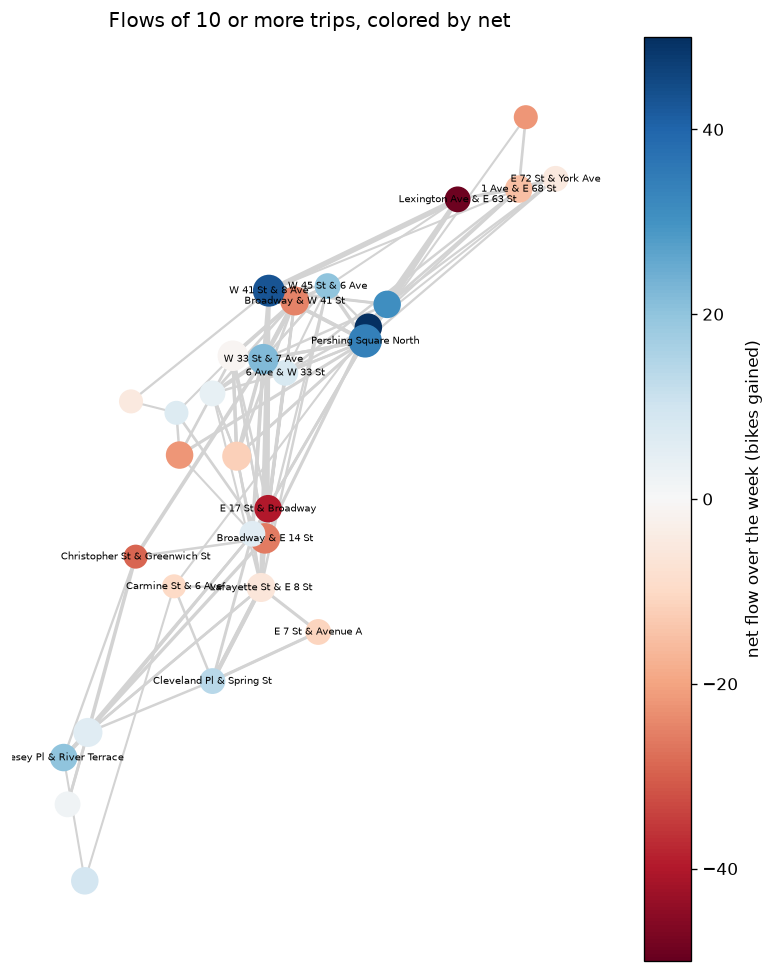
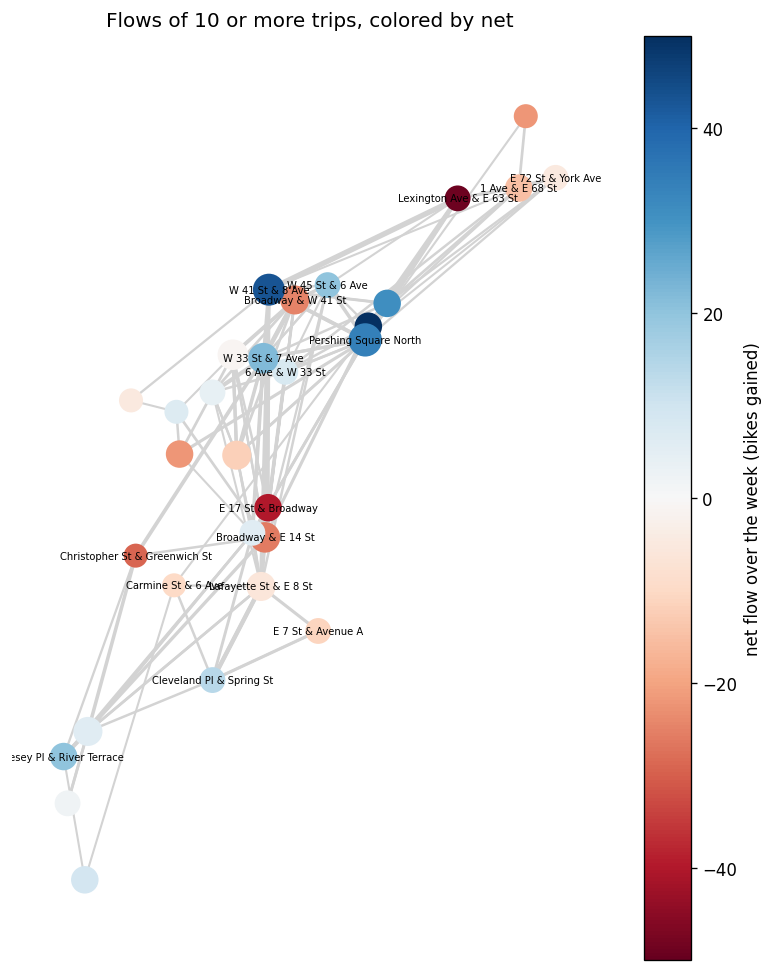
Reset social network script to color by group
The committed picture and the solution text describe the group coloring; the script had been left on car after exploring the other settings.

diff --git a/04_networkx_intro/social_network.py b/04_networkx_intro/social_network.py
@@ -93,8 +93,8 @@ colors_music = {"Indie rock": "tab:green",
 # Change these two lines to recolor the picture. color_by is the attribute name
 # carried on the nodes in block 2 (group, favorite_team, car or music), and
 # colors is the dictionary that goes with it.
-color_by = "car"
-colors = colors_cars
+color_by = "group"
+colors = colors_groups
 
 pos = nx.spring_layout(U, seed=7)
 plt.figure(figsize=(9, 7))
